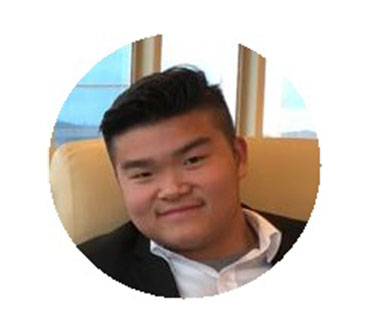
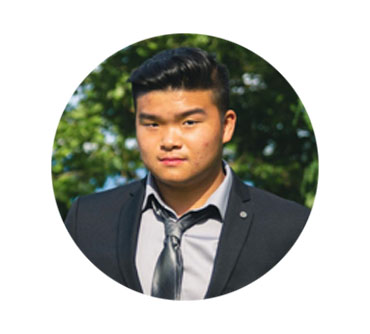
added corona stuff, tech/financial/med pics. updated huy's pic

diff --git a/index.html b/index.html
@@ -36,8 +36,8 @@
                         <div class="content_wrap">
                             <div class="contact_logo">
                                 <div class="logo" style="font-family: marion;">
-                                    Unified International Corp.
-                                    <!-- <a href="index.html"><img alt="" class="logo_main" src="images/logo_dark.png"> <img alt="" class="logo_fixed" src="images/logo.png"></a> -->
+                                    <!-- <a href="index.html">Unified International Corp.</a> -->
+                                    <a href="index.html"><img alt="" class="logo_main" src="images/logo.jpg"> <img alt="" class="logo_fixed" src="images/logo.jpg"></a>
                                 </div>
                             </div>
                             <div class="menu_main_wrap">
@@ -105,9 +105,10 @@
                             <div class="sc_services sc_services_style_services-4 sc_services_type_icons_img margin_top_huge margin_bottom_huge">
                                 <h2 class="sc_services_title sc_item_title">About</h2>
                                 <div class="">
+                                    <p style="color: red">With the recent epidemic of Covid-19 virus outbreak, the world has been in short supply of essential medical equipment and products. At Unified International Corporation, we are here to deliver the highest quality of hand sanitizer and other essential medical goods. We understand that time is of the essence, and knowing that what we do matters we pride ourselves in helping people all across the world.</p>
                                     <p>Unified International Corporation is a consultation company. We obtain fulfillment and satisfaction by work closely with our private network of investors and companies alike. Our Vancouver Based Capital company specializes in real estate, with our reach extending to a global platform. We use a proven methodology in order to leverage and raise capital to negotiate financing terms that satisfy both our clients and our investors. </p>
 
-<p>Unified International Corp connects both debt and equity financing options to our A-Tier clients. Our ultimate objective is to ensure our clients with the best terms for their funding round. We help our clients transform their business to high growth enterprises with high multiple valuations. Our private network of high net-worth accredited investors move accordingly to the projects that are the right fit for their investment criteria. When a company is looking for an exit, our network has investors that are looking for a well-established business.</p>
+                                    <p>Unified International Corp connects both debt and equity financing options to our A-Tier clients. Our ultimate objective is to ensure our clients with the best terms for their funding round. We help our clients transform their business to high growth enterprises with high multiple valuations. Our private network of high net-worth accredited investors move accordingly to the projects that are the right fit for their investment criteria. When a company is looking for an exit, our network has investors that are looking for a well-established business.</p>
 
                                 </div>
                                 
@@ -141,11 +142,11 @@
                                 </div>
                                 <h3>Projects</h3>
                                 <div class="sc_columns columns_wrap">
-                                    <div class="column-1_4 column_padding_bottom">
+                                    <div class="column-1_3 column_padding_bottom">
                                         <div class="sc_services_item sc_services_item_1">
                                             <div class="sc_services_item_featured post_featured">
                                                 <div class="post_thumb">
-                                                    <a class="hover_icon hover_icon_link" href="single-service.html"><img alt="" src="images/projects1.jpg"></a>
+                                                    <img alt="" src="images/projects1.jpg">
                                                 </div>
                                                 <div class="sc_services_item_count">
                                                     01
@@ -156,11 +157,11 @@
                                             </div>
                                         </div>
                                     </div>
-                                    <div class="column-1_4 column_padding_bottom">
+                                    <div class="column-1_3 column_padding_bottom">
                                         <div class="sc_services_item sc_services_item_2">
                                             <div class="sc_services_item_featured post_featured">
                                                 <div class="post_thumb">
-                                                    <a class="hover_icon hover_icon_link" href="single-service.html"><img alt="" src="images/projects2.jpg"></a>
+                                                    <img alt="" src="images/projects2.jpg">
                                                 </div>
                                                 <div class="sc_services_item_count">
                                                     02
@@ -171,11 +172,11 @@
                                             </div>
                                         </div>
                                     </div>
-                                    <div class="column-1_4 column_padding_bottom">
+                                    <div class="column-1_3 column_padding_bottom">
                                         <div class="sc_services_item sc_services_item_3">
                                             <div class="sc_services_item_featured post_featured">
                                                 <div class="post_thumb">
-                                                    <a class="hover_icon hover_icon_link" href="single-service.html"><img alt="" src="images/projects3.jpg"></a>
+                                                    <img alt="" src="images/projects3.jpg">
                                                 </div>
                                                 <div class="sc_services_item_count">
                                                     03
@@ -186,30 +187,15 @@
                                             </div>
                                         </div>
                                     </div>
-
-                                    <div class="column-1_4 column_padding_bottom">
-                                        <div class="sc_services_item sc_services_item_1">
-                                            <div class="sc_services_item_featured post_featured">
-                                                <div class="post_thumb">
-                                                    <a class="hover_icon hover_icon_link" href="single-service.html"><img alt="" src="images/projects4.jpg"></a>
-                                                </div>
-                                                <div class="sc_services_item_count">
-                                                    04
-                                                </div>
-                                            </div>
-                                            <div class="sc_services_item_content">
-                                                <h4 class="sc_services_item_title"><a href="single-service.html">Farm</a></h4>
-                                            </div>
-                                        </div>
-                                    </div>
-                                    <div class="column-1_4 column_padding_bottom">
+                                    
+                                    <div class="column-1_3 column_padding_bottom">
                                         <div class="sc_services_item sc_services_item_2">
                                             <div class="sc_services_item_featured post_featured">
                                                 <div class="post_thumb">
-                                                    <a class="hover_icon hover_icon_link" href="single-service.html"><img alt="" src="images/projects5.jpg"></a>
+                                                    <img alt="" src="images/projects5.jpg">
                                                 </div>
                                                 <div class="sc_services_item_count">
-                                                    05
+                                                    04
                                                 </div>
                                             </div>
                                             <div class="sc_services_item_content">
@@ -217,30 +203,15 @@
                                             </div>
                                         </div>
                                     </div>
-                                    <div class="column-1_4 column_padding_bottom">
-                                        <div class="sc_services_item sc_services_item_3">
-                                            <div class="sc_services_item_featured post_featured">
-                                                <div class="post_thumb">
-                                                    <a class="hover_icon hover_icon_link" href="single-service.html"><img alt="" src="images/projects6.jpg"></a>
-                                                </div>
-                                                <div class="sc_services_item_count">
-                                                    06
-                                                </div>
-                                            </div>
-                                            <div class="sc_services_item_content">
-                                                <h4 class="sc_services_item_title"><a href="single-service.html">Motel</a></h4>
-                                            </div>
-                                        </div>
-                                    </div>
 
-                                    <div class="column-1_4 column_padding_bottom">
+                                    <div class="column-1_3 column_padding_bottom">
                                         <div class="sc_services_item sc_services_item_1">
                                             <div class="sc_services_item_featured post_featured">
                                                 <div class="post_thumb">
-                                                    <a class="hover_icon hover_icon_link" href="single-service.html"><img alt="" src="images/projects7.jpg"></a>
+                                                    <img alt="" src="images/projects7.jpg">
                                                 </div>
                                                 <div class="sc_services_item_count">
-                                                    07
+                                                    05
                                                 </div>
                                             </div>
                                             <div class="sc_services_item_content">
@@ -248,14 +219,14 @@
                                             </div>
                                         </div>
                                     </div>
-                                    <div class="column-1_4 column_padding_bottom">
+                                    <div class="column-1_3 column_padding_bottom">
                                         <div class="sc_services_item sc_services_item_2">
                                             <div class="sc_services_item_featured post_featured">
                                                 <div class="post_thumb">
-                                                    <a class="hover_icon hover_icon_link" href="single-service.html"><img alt="" src="images/projects8.jpg"></a>
+                                                    <img alt="" src="images/projects8.jpg">
                                                 </div>
                                                 <div class="sc_services_item_count">
-                                                    08
+                                                    06
                                                 </div>
                                             </div>
                                             <div class="sc_services_item_content">
@@ -274,12 +245,19 @@
                     <div class="content_wrap">
                         <div class="sc_empty_space" data-height="2em"></div>
                         <div class="sc_services_wrap">
-                            <div class="sc_services sc_services_style_services-3 sc_services_type_images margin_top_huge margin_bottom_huge">
-                                <h1 class="sc_services_title sc_item_title">UIC Med</h1>
-                                <div class="">
+                            <div class="sc_columns columns_wrap margin_bottom_huge">
+                                <h1 class="sc_services_title sc_item_title ">UIC Med</h1>
+
+                                <div class="column-1_3">
+                                    <div class="sc_services_item_featured post_featured">
+                                        <div class="post_thumb">
+                                            <img alt="" src="images/med.jpg">
+                                        </div>
+                                    </div>
+                                </div>
+                                <div class="column-2_3">
                                     <p>Unified International Corporation has believed in personal wellness and the betterment of human living. We work with industry experts with proven track records. Structured around North American standards, quality, and compliance are our minimum requirements. By carefully analyzing market trends and its applicable application to their intended audience. Our team explores the benefits of topical delivery to oral consumption to medicinal usage. </p>
                                     <p>Our connection and networks have established infrastructure within the medical industry. Understanding the fundamentals and the health benefits of the medical industry is one of our core key competencies that differentiates us from other organization within this field. We raise capital and perform acquisitions for fully licensed medical-related companies within the Canadian and the United States markets. The medical industry has always been the backbone of society as it serves the purpose of taking care of the respective sovereignty population.</p>
-
                                 </div>
                             </div>
                         </div>
@@ -290,14 +268,23 @@
                     <div class="content_wrap">
                         <div class="sc_empty_space" data-height="2em"></div>
                         <div class="sc_services_wrap">
-                            <div class="sc_services sc_services_style_services-3 sc_services_type_images margin_top_huge margin_bottom_huge">
+                            <div class="sc_columns columns_wrap margin_bottom_huge">
                                 <h1 class="sc_services_title sc_item_title">UIC Tech</h1>
-                                <div class="">
+
+                                <div class="column-2_3">
                                     <p>Our partners have deep technical expertise in developing native mobile applications for both iOS and Android platforms. Our designers and developers are the best at what they do and can unleash the full potential of your app with each platform’s unique features. Sometimes it makes more sense to take the hybrid approach. Being able to write the majority of code for both operating systems with one code base is considered the holy grail of mobile. </p>
 
                                     <p>We also build complex, dynamic websites that can be easily updated and maintained, allowing you to be self-sufficient after we’ve worked our programming experience. We can deliver solutions using our own framework as well as on CMS platforms such as WordPress, Wix, and Squarespace. Whether you’re developing the website alongside a mobile app or enterprise software, we apply seamless integration across all platforms and devices. A true responsive website cannot be an afterthought. We design and develop with cross-functionality in mind so that user experience feels natural, and not forced to fit a mould. </p>
 
                                 </div>
+                                <div class="column-1_3">
+                                    <div class="sc_services_item_featured post_featured">
+                                        <div class="post_thumb">
+                                            <img alt="" src="images/tech.jpg">
+                                        </div>
+                                    </div>
+                                </div>
+                                
                             </div>
                         </div>
                     </div>
@@ -307,19 +294,26 @@
                     <div class="content_wrap">
                         <div class="sc_empty_space" data-height="2em"></div>
                         <div class="sc_services_wrap">
-                            <div class="sc_services sc_services_style_services-3 sc_services_type_images margin_top_huge margin_bottom_huge">
+                            <div class="sc_columns columns_wrap margin_bottom_huge">
                                 <h1 class="sc_services_title sc_item_title">UIC Financial</h1>
-                                <div class="">
-                                    Unified International Corp is a corporate financial services firm that helps growing companies access capital from a wide variety of institutional lenders, mezzanine funds, and equity firms. Public Transitioning: Transitioning companies from the private markets to public markets through companies that we’ve partnered up with. SR&E.D Tax Claims: Unified International Corporation partners up with an S.R&E.D specialist company to provide technology companies with the returns on their research and development claims. Capital Raising: Equity/Loan/Revenue Financing: Raising capital for projects in North America through financial institutions that we’ve partnered up with. A capital injection can range from equity, loan to revenue financing. Canadian grants allow companies to help satisfy social needs. 
+                                <div class="column-1_3">
+                                    <div class="sc_services_item_featured post_featured">
+                                        <div class="post_thumb">
+                                            <img alt="" src="images/financial.jpg">
+                                        </div>
+                                    </div>
+                                </div>
+                                <div class="column-2_3">
+                                   Unified International Corp is a corporate financial services firm that helps growing companies access capital from a wide variety of institutional lenders, mezzanine funds, and equity firms. Public Transitioning: Transitioning companies from the private markets to public markets through companies that we’ve partnered up with. SR&E.D Tax Claims: Unified International Corporation partners up with an S.R&E.D specialist company to provide technology companies with the returns on their research and development claims. Capital Raising: Equity/Loan/Revenue Financing: Raising capital for projects in North America through financial institutions that we’ve partnered up with. A capital injection can range from equity, loan to revenue financing. Canadian grants allow companies to help satisfy social needs. 
 
-<h5>Public Transitioning:</h5>
-<p>Transitioning companies from the private markets to public markets through companies that we’ve partnered up with.</p>
+                                    <h5>Public Transitioning:</h5>
+                                    <p>Transitioning companies from the private markets to public markets through companies that we’ve partnered up with.</p>
 
-<h5>SR&E.D Tax Claims:</h5>
-<p>Unified International Corporation partners up with a S.R&E.D specialist company to provide technology companies with the returns on their research and development claims.</p>
+                                    <h5>SR&E.D Tax Claims:</h5>
+                                    <p>Unified International Corporation partners up with a S.R&E.D specialist company to provide technology companies with the returns on their research and development claims.</p>
 
-<h5>Capital Raising: Equity/Loan/Revenue Financing:</h5>
-<p>Raising capital for projects in North America through financial institutions that we’ve partnered up with. A capital injection can range from equity, loan to revenue financing.</p>
+                                    <h5>Capital Raising: Equity/Loan/Revenue Financing:</h5>
+                                    <p>Raising capital for projects in North America through financial institutions that we’ve partnered up with. A capital injection can range from equity, loan to revenue financing.</p>
 
                                 </div>
                             </div>

diff --git a/js/custom/custom.js b/js/custom/custom.js
@@ -116,51 +116,3 @@ function sliderInit() {
         }
     }
 }
-
-function revslider_showDoubleJqueryError(sliderID) {
-    "use strict";
-    var errorMessage = "Revolution Slider Error: You have some jquery.js library include that comes after the revolution files js include.";
-    errorMessage += "<br> This includes make eliminates the revolution slider libraries, and make it not work.";
-    errorMessage += "<br><br> To fix it you can:<br>&nbsp;&nbsp;&nbsp; 1. In the Slider Settings -> Troubleshooting set option:  <strong><b>Put JS Includes To Body</b></strong> option to true.";
-    errorMessage += "<br>&nbsp;&nbsp;&nbsp; 2. Find the double jquery.js include and remove it.";
-    errorMessage = "<span style='font-size:16px;color:#BC0C06;'>" + errorMessage + "</span>";
-    jQuery(sliderID).show().html(errorMessage);
-}
-
-
-var sb_instagram_js_options = {
-    "sb_instagram_at": "3273597493.3a81a9f.084695f48e1e4b2ba0e258a9935743d8"
-};
-var woocommerce_price_slider_params = {
-    "currency_symbol": "$",
-    "currency_pos": "left",
-    "min_price": "",
-    "max_price": ""
-};
-var wc_single_product_params = {
-    "i18n_required_rating_text": "Please select a rating",
-    "review_rating_required": "yes"
-};
-var wc_checkout_params = {
-    "ajax_url": "",
-    "wc_ajax_url": "",
-    "update_order_review_nonce": "55456ea40e",
-    "apply_coupon_nonce": "148820ad75",
-    "remove_coupon_nonce": "1ba16659bd",
-    "option_guest_checkout": "yes",
-    "checkout_url": "\/checkout\/?wc-ajax=checkout",
-    "is_checkout": "1",
-    "debug_mode": "",
-    "i18n_checkout_error": "Error processing checkout. Please try again."
-};
-var booked_js_vars = {
-    "ajax_url": "",
-    "profilePage": "",
-    "publicAppointments": "",
-    "i18n_confirm_appt_delete": "Are you sure you want to cancel this appointment?",
-    "i18n_please_wait": "Please wait ...",
-    "i18n_wrong_username_pass": "Wrong username\/password combination.",
-    "i18n_fill_out_required_fields": "Please fill out all required fields.",
-    "i18n_guest_appt_required_fields": "Please enter your name to book an appointment.",
-    "i18n_appt_required_fields": "Please enter your name, your email address and choose a password to book an appointment."
-};

diff --git a/css/style.css b/css/style.css
@@ -3018,15 +3018,13 @@ body:not(.top_panel_fixed) .top_panel_style_3.boxed_style .top_panel_middle {
     width: auto;
 }
 .top_panel_fixed .top_panel_wrap .logo {
-    margin-bottom: 0.6em;
-    margin-top: .9em;
+    margin: auto;`
 }
 .logo a {
     display: inline-block;
 }
 .logo img {
     float: left;
-    margin: 0 0.7857em 0.7857em 0;
     width: auto;
 }
 .logo_text,
@@ -3043,7 +3041,8 @@ body:not(.top_panel_fixed) .top_panel_style_3.boxed_style .top_panel_middle {
 }
 .top_panel_wrap .logo_fixed {
     display: none;
-    max-height: 42px;
+    max-height: 54px;
+    margin-top: 12px;
     width: auto;
 }
 .top_panel_fixed .top_panel_wrap .logo_fixed {
